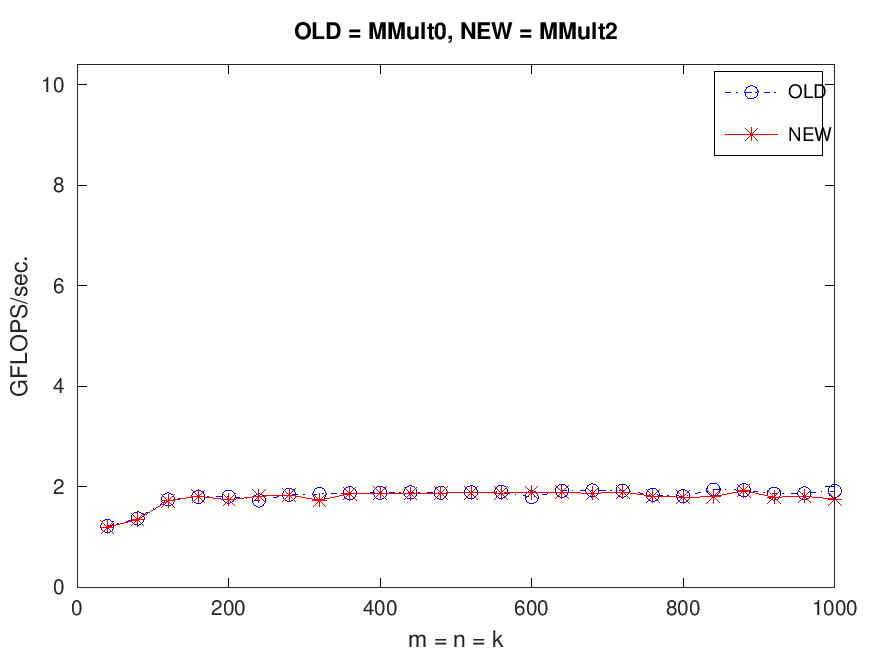
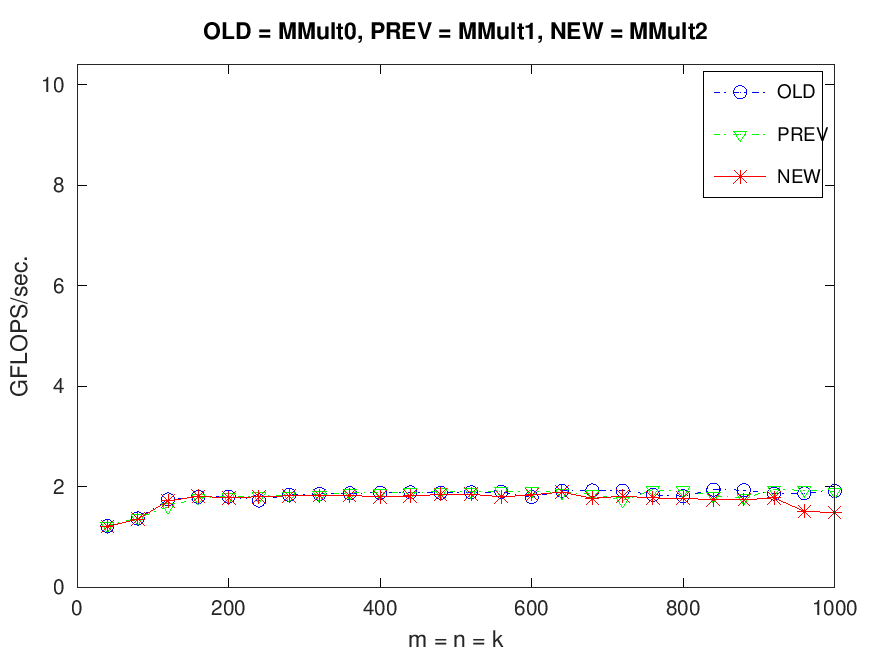
update: test with PREV

diff --git a/src/HowToOptimizeGemm/output_new.m b/src/HowToOptimizeGemm/output_new.m
@@ -1,28 +1,28 @@
-version = 'MMult1';
+version = 'MMult2';
 MY_MMult = [
-40 1.230769e+00 0.000000e+00 
-80 1.374497e+00 0.000000e+00 
-120 1.602225e+00 0.000000e+00 
-160 1.781257e+00 0.000000e+00 
-200 1.807297e+00 0.000000e+00 
-240 1.813221e+00 0.000000e+00 
-280 1.830706e+00 0.000000e+00 
-320 1.838472e+00 0.000000e+00 
-360 1.878677e+00 0.000000e+00 
-400 1.886653e+00 0.000000e+00 
-440 1.894831e+00 0.000000e+00 
-480 1.900386e+00 0.000000e+00 
-520 1.907907e+00 0.000000e+00 
-560 1.913987e+00 0.000000e+00 
-600 1.916346e+00 0.000000e+00 
-640 1.882650e+00 0.000000e+00 
-680 1.862821e+00 0.000000e+00 
-720 1.723376e+00 0.000000e+00 
-760 1.937318e+00 0.000000e+00 
-800 1.931514e+00 0.000000e+00 
-840 1.818674e+00 0.000000e+00 
-880 1.778657e+00 0.000000e+00 
-920 1.941439e+00 0.000000e+00 
-960 1.932761e+00 0.000000e+00 
-1000 1.906950e+00 0.000000e+00 
+40 1.207547e+00 0.000000e+00 
+80 1.356291e+00 0.000000e+00 
+120 1.718548e+00 0.000000e+00 
+160 1.811988e+00 0.000000e+00 
+200 1.780944e+00 0.000000e+00 
+240 1.802112e+00 0.000000e+00 
+280 1.821592e+00 0.000000e+00 
+320 1.824245e+00 0.000000e+00 
+360 1.827211e+00 0.000000e+00 
+400 1.801269e+00 0.000000e+00 
+440 1.817802e+00 0.000000e+00 
+480 1.849303e+00 0.000000e+00 
+520 1.851628e+00 0.000000e+00 
+560 1.800322e+00 0.000000e+00 
+600 1.837110e+00 0.000000e+00 
+640 1.895001e+00 0.000000e+00 
+680 1.768966e+00 0.000000e+00 
+720 1.814892e+00 0.000000e+00 
+760 1.777450e+00 0.000000e+00 
+800 1.773756e+00 0.000000e+00 
+840 1.739658e+00 0.000000e+00 
+880 1.738606e+00 0.000000e+00 
+920 1.781059e+00 0.000000e+00 
+960 1.510208e+00 0.000000e+00 
+1000 1.487907e+00 0.000000e+00 
 ];

diff --git a/src/HowToOptimizeGemm/output_prev.m b/src/HowToOptimizeGemm/output_prev.m
@@ -1,28 +1,28 @@
-version = 'MMult0';
+version = 'MMult1';
 MY_MMult = [
-40 1.219048e+00 0.000000e+00 
-80 1.368984e+00 0.000000e+00 
-120 1.748988e+00 0.000000e+00 
-160 1.798463e+00 0.000000e+00 
-200 1.803833e+00 0.000000e+00 
-240 1.729081e+00 0.000000e+00 
-280 1.841225e+00 0.000000e+00 
-320 1.857017e+00 0.000000e+00 
-360 1.871030e+00 0.000000e+00 
-400 1.881716e+00 0.000000e+00 
-440 1.889346e+00 0.000000e+00 
-480 1.881296e+00 0.000000e+00 
-520 1.890477e+00 0.000000e+00 
-560 1.901048e+00 0.000000e+00 
-600 1.794325e+00 0.000000e+00 
-640 1.919984e+00 0.000000e+00 
-680 1.926643e+00 0.000000e+00 
-720 1.925929e+00 0.000000e+00 
-760 1.841682e+00 0.000000e+00 
-800 1.812954e+00 0.000000e+00 
-840 1.943190e+00 0.000000e+00 
-880 1.933317e+00 0.000000e+00 
-920 1.864464e+00 0.000000e+00 
-960 1.871590e+00 0.000000e+00 
-1000 1.916682e+00 0.000000e+00 
+40 1.230769e+00 0.000000e+00 
+80 1.374497e+00 0.000000e+00 
+120 1.602225e+00 0.000000e+00 
+160 1.781257e+00 0.000000e+00 
+200 1.807297e+00 0.000000e+00 
+240 1.813221e+00 0.000000e+00 
+280 1.830706e+00 0.000000e+00 
+320 1.838472e+00 0.000000e+00 
+360 1.878677e+00 0.000000e+00 
+400 1.886653e+00 0.000000e+00 
+440 1.894831e+00 0.000000e+00 
+480 1.900386e+00 0.000000e+00 
+520 1.907907e+00 0.000000e+00 
+560 1.913987e+00 0.000000e+00 
+600 1.916346e+00 0.000000e+00 
+640 1.882650e+00 0.000000e+00 
+680 1.862821e+00 0.000000e+00 
+720 1.723376e+00 0.000000e+00 
+760 1.937318e+00 0.000000e+00 
+800 1.931514e+00 0.000000e+00 
+840 1.818674e+00 0.000000e+00 
+880 1.778657e+00 0.000000e+00 
+920 1.941439e+00 0.000000e+00 
+960 1.932761e+00 0.000000e+00 
+1000 1.906950e+00 0.000000e+00 
 ];

diff --git a/src/HowToOptimizeGemm/output_MMult2.m b/src/HowToOptimizeGemm/output_MMult2.m
@@ -1,28 +1,28 @@
 version = 'MMult2';
 MY_MMult = [
-40 1.196262e+00 0.000000e+00 
-80 1.349144e+00 0.000000e+00 
-120 1.722832e+00 0.000000e+00 
-160 1.813192e+00 0.000000e+00 
-200 1.738941e+00 0.000000e+00 
-240 1.813340e+00 0.000000e+00 
-280 1.836142e+00 0.000000e+00 
-320 1.733069e+00 0.000000e+00 
-360 1.861846e+00 0.000000e+00 
-400 1.875568e+00 0.000000e+00 
-440 1.863330e+00 0.000000e+00 
-480 1.874663e+00 0.000000e+00 
-520 1.882693e+00 0.000000e+00 
-560 1.875758e+00 0.000000e+00 
-600 1.886232e+00 0.000000e+00 
-640 1.890341e+00 0.000000e+00 
-680 1.869388e+00 0.000000e+00 
-720 1.895728e+00 0.000000e+00 
-760 1.811776e+00 0.000000e+00 
-800 1.792215e+00 0.000000e+00 
-840 1.799831e+00 0.000000e+00 
-880 1.922314e+00 0.000000e+00 
-920 1.793313e+00 0.000000e+00 
-960 1.810363e+00 0.000000e+00 
-1000 1.757811e+00 0.000000e+00 
+40 1.207547e+00 0.000000e+00 
+80 1.356291e+00 0.000000e+00 
+120 1.718548e+00 0.000000e+00 
+160 1.811988e+00 0.000000e+00 
+200 1.780944e+00 0.000000e+00 
+240 1.802112e+00 0.000000e+00 
+280 1.821592e+00 0.000000e+00 
+320 1.824245e+00 0.000000e+00 
+360 1.827211e+00 0.000000e+00 
+400 1.801269e+00 0.000000e+00 
+440 1.817802e+00 0.000000e+00 
+480 1.849303e+00 0.000000e+00 
+520 1.851628e+00 0.000000e+00 
+560 1.800322e+00 0.000000e+00 
+600 1.837110e+00 0.000000e+00 
+640 1.895001e+00 0.000000e+00 
+680 1.768966e+00 0.000000e+00 
+720 1.814892e+00 0.000000e+00 
+760 1.777450e+00 0.000000e+00 
+800 1.773756e+00 0.000000e+00 
+840 1.739658e+00 0.000000e+00 
+880 1.738606e+00 0.000000e+00 
+920 1.781059e+00 0.000000e+00 
+960 1.510208e+00 0.000000e+00 
+1000 1.487907e+00 0.000000e+00 
 ];
